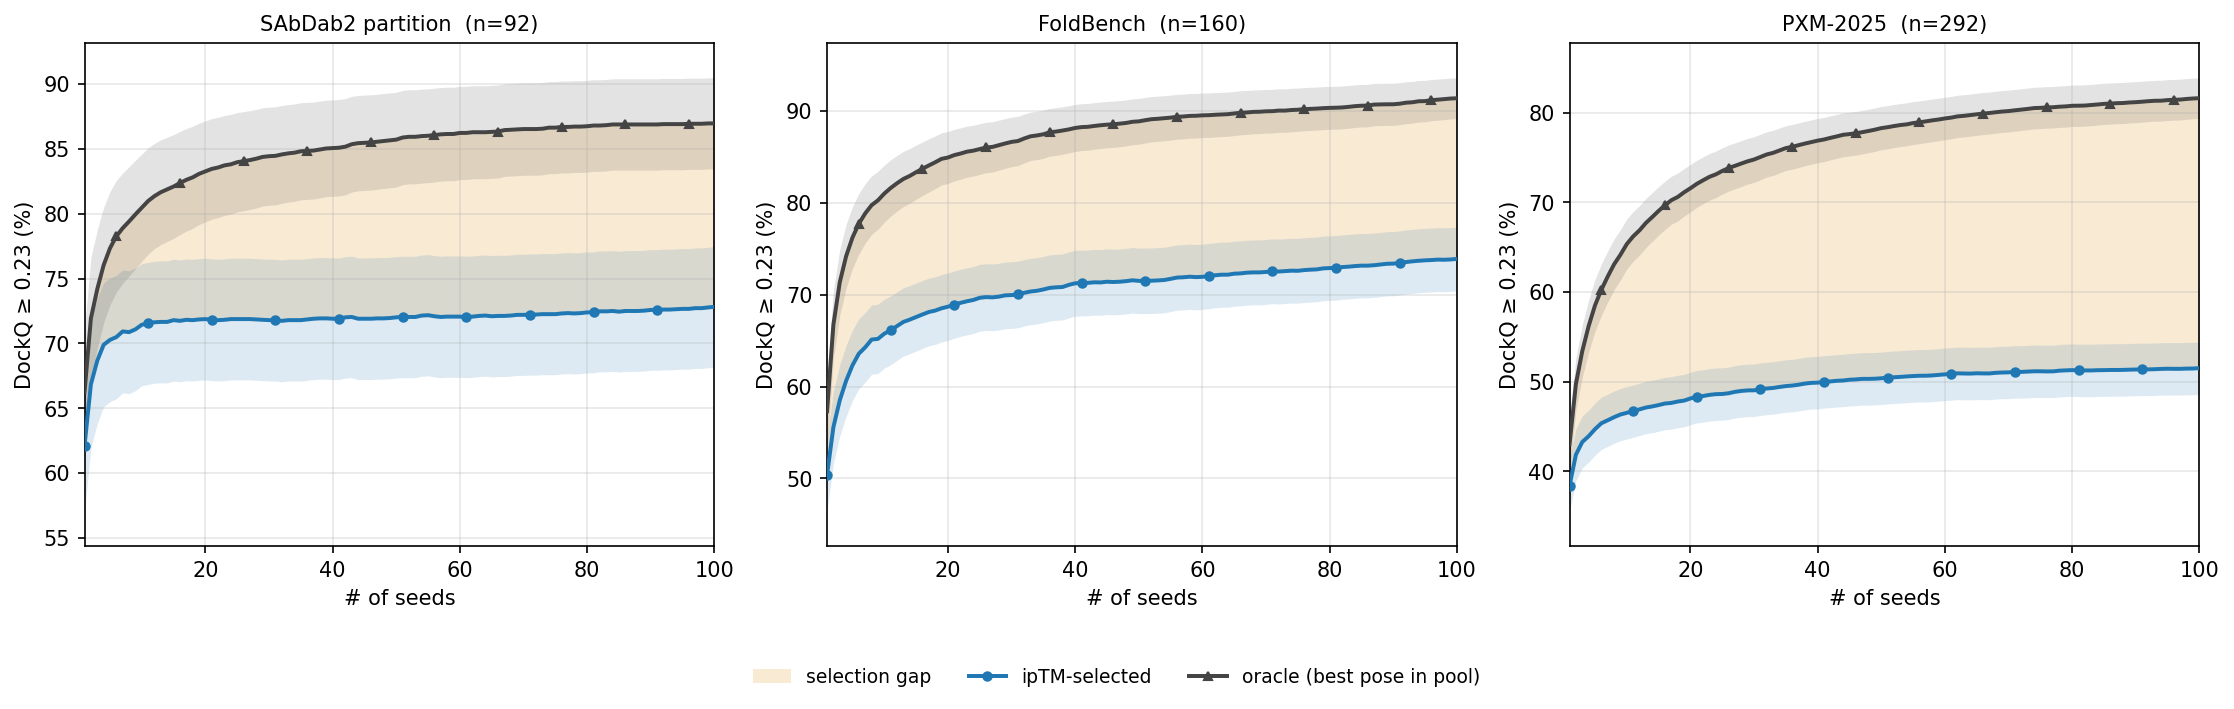
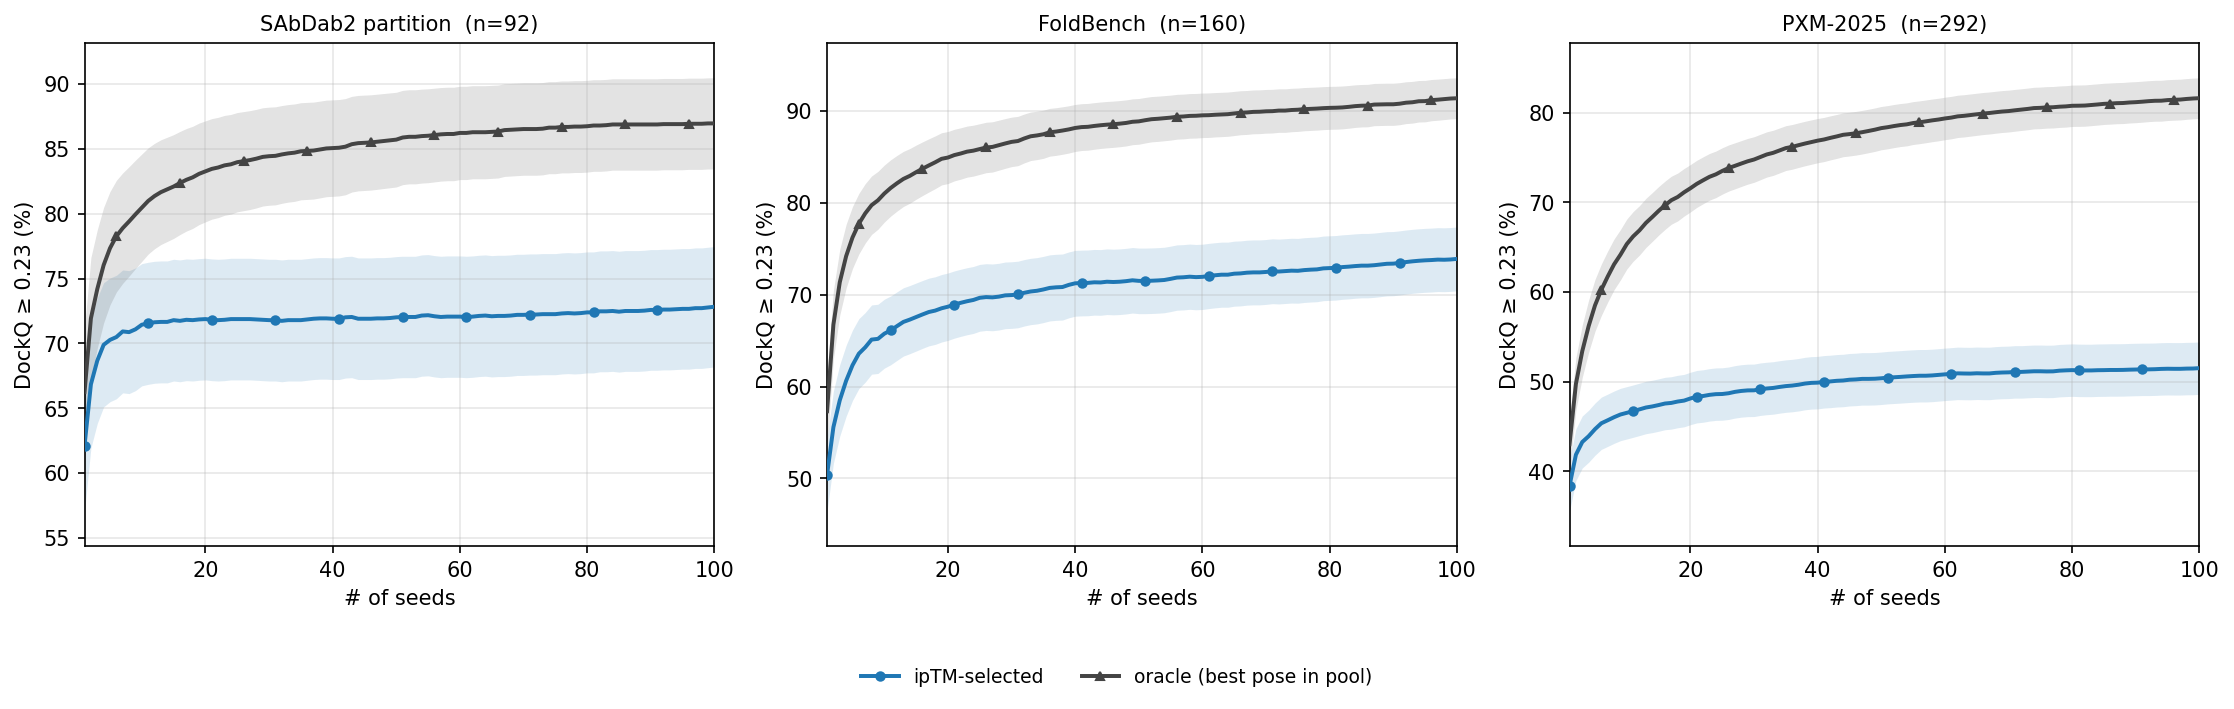
figures: stop shading the selection gap
The panel already uses shading to mean uncertainty -- the SEM bands -- so filling
a region that is not an uncertainty in the same visual language invites reading it
as a confidence interval. Two curves show the distance between them without help.

Claude-Session: https://claude.ai/code/session_014t55QPNWnMkjqFi95YVBtG

diff --git a/figures/selection_vs_budget.py b/figures/selection_vs_budget.py
@@ -68,7 +68,6 @@ COLORS = ["#1f77b4", "#444444"]          # selected, oracle
 LABELS = ["ipTM-selected", "oracle (best pose in pool)"]
 MARKERS = ["o", "^"]
 MARKEVERY = [(0, 10), (5, 10)]
-GAP_COLOR = "#e8a33d"
 
 
 def sem(p, n):
@@ -194,11 +193,10 @@ def main():
         # ORACLE = selected + decoy: an acceptable pose is in the pool, whoever picks it.
         orc = [a_ + d_ for a_, d_ in zip(acc, dec)]
         shown = (acc, orc)
-        # THE GAP ITSELF, shaded between the curves and drawn first so both lines and both SEM
-        # bands sit on top of it.
-        ax.fill_between(xs, [y * 100 for y in acc], [y * 100 for y in orc],
-                        color=GAP_COLOR, alpha=0.22, linewidth=0, zorder=0,
-                        label="selection gap")
+        # THE GAP IS NOT SHADED. It was, and that was a mistake: this panel already uses shading
+        # to mean UNCERTAINTY (the SEM bands), so filling a region that is not an uncertainty in
+        # the same visual language invites reading it as a confidence interval. Two curves show
+        # the distance between them without help.
         for ys, c in zip(shown, COLORS):
             band(ax, xs, ys, n_if, c)
         for i, (ys, c, lbl) in enumerate(zip(shown, COLORS, LABELS)):

diff --git a/figures/README.md b/figures/README.md
@@ -9,7 +9,7 @@ Run from the repository root.
 
 | figure | script | what it shows |
 |---|---|---|
-| `selection_vs_budget.png` | `selection_vs_budget.py` | For the SAbDab2 held-out partition, FoldBench and PXM-2025: the % of interfaces reaching DockQ ≥ 0.23 by ipTM selection and by an oracle over the same pool, against candidate budget 1–100 seeds. The shaded band between them is the selection gap. |
+| `selection_vs_budget.png` | `selection_vs_budget.py` | For the SAbDab2 held-out partition, FoldBench and PXM-2025: the % of interfaces reaching DockQ ≥ 0.23 by ipTM selection and by an oracle over the same pool, against candidate budget 1–100 seeds. The distance between them is the selection gap. |
 
 ## What `selection_vs_budget` is for
 
@@ -22,7 +22,7 @@ Each panel has two curves over the same pool of N seeds:
 - **oracle** — an acceptable pose (DockQ >= 0.23) is somewhere in the pool, whoever finds it.
 - **ipTM-selected** — the pose ipTM actually picks is acceptable.
 
-**The shaded distance between them is the selection gap**: interfaces the folding solved and the
+**The distance between them is the selection gap**: interfaces the folding solved and the
 ranking then lost. It is the entire headroom available to a confidence head. Everything below the
 oracle curve is a generation failure that no reranking can reach, so the oracle is the ceiling and
 the gap is the prize.
